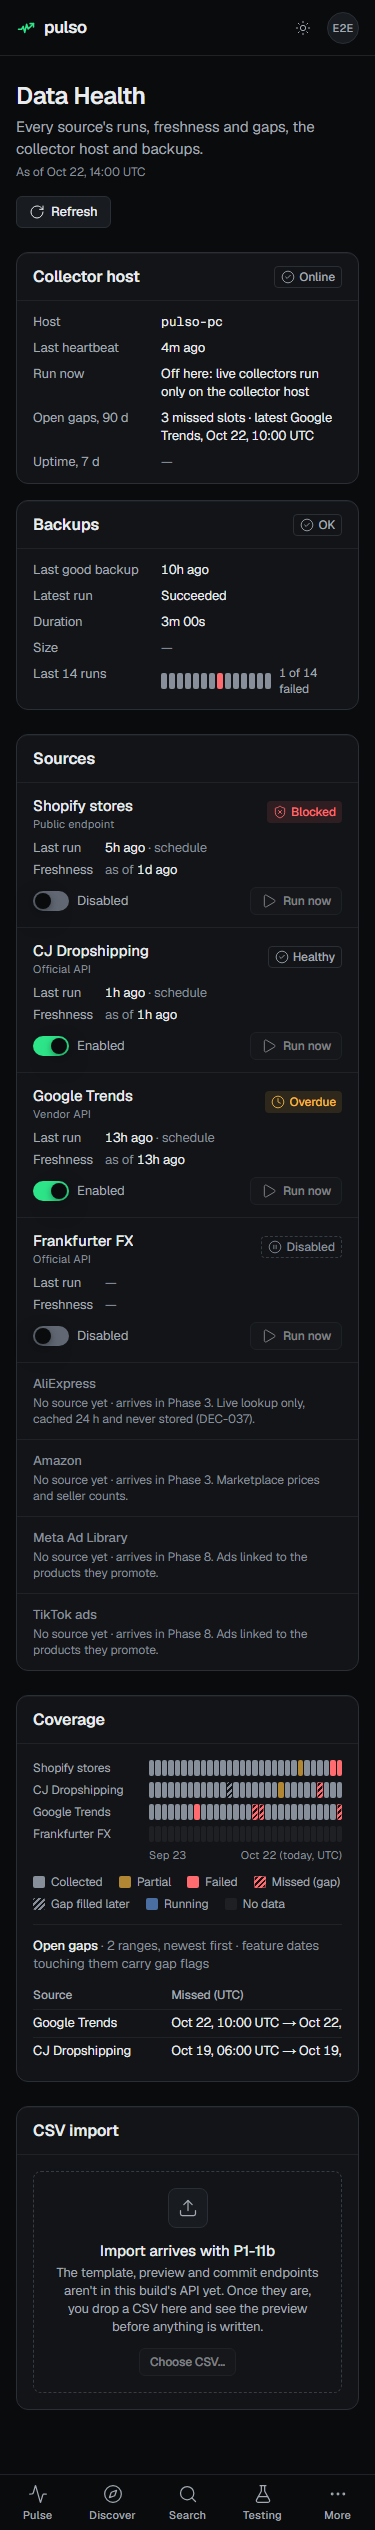
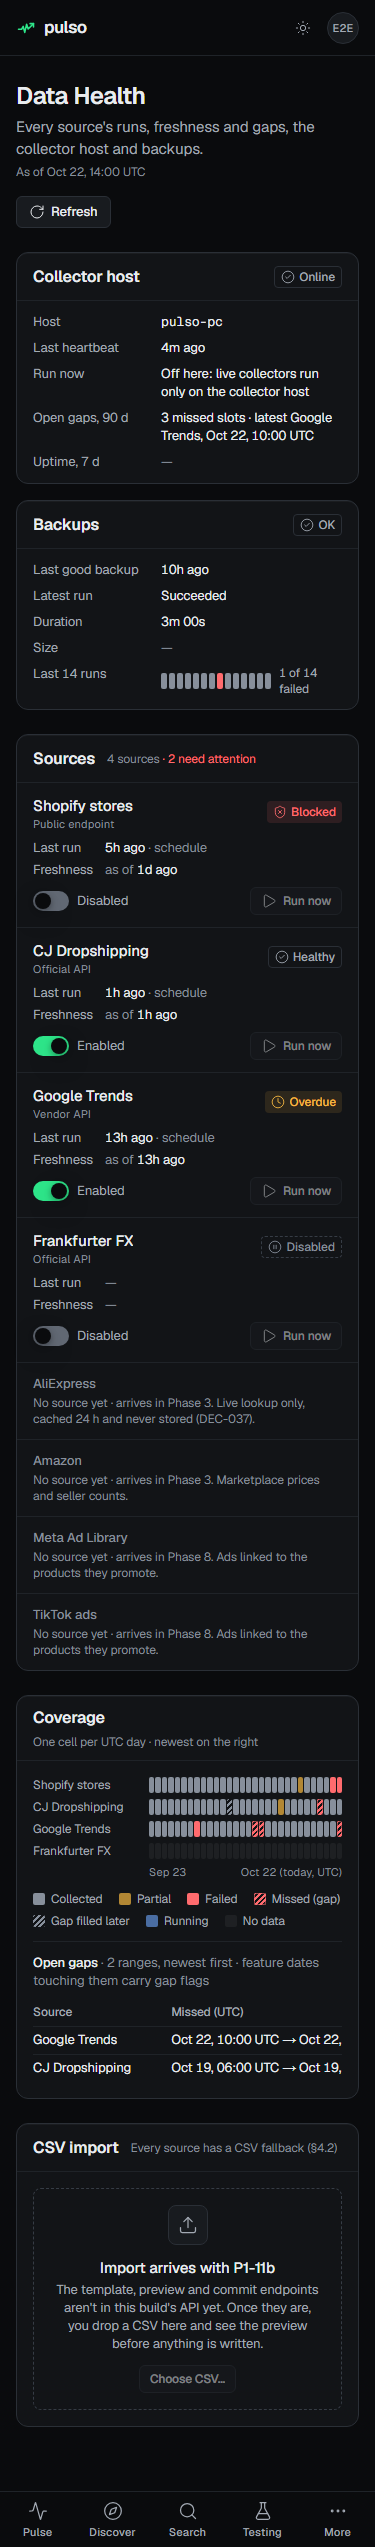
docs: DEC-096 Data Health UI defaults and P1-12 backlog rows

diff --git a/apps/web/src/components/data-health/summary-cards.tsx b/apps/web/src/components/data-health/summary-cards.tsx
@@ -124,7 +124,7 @@ export function BackupCard({ now }: { now: number }) {
   const shown = backup?.lastSuccess ?? backup?.latest;
 
   return (
-    <Panel id="backup" title="Backups" note="Nightly pg_dump on the collector host" actions={pill && <Pill tone={pill.tone} icon={pill.icon}>{pill.label}</Pill>}>
+    <Panel id="backup" title="Backups" note={<span className="max-sm:hidden">Nightly pg_dump on the collector host</span>} actions={pill && <Pill tone={pill.tone} icon={pill.icon}>{pill.label}</Pill>}>
       {runs.isPending ? (
         <CardSkeleton />
       ) : runs.isError ? (

diff --git a/apps/web/src/components/data-health/atoms.tsx b/apps/web/src/components/data-health/atoms.tsx
@@ -149,7 +149,7 @@ export function Panel({
         <h2 id={`${id}-title`} className="text-title-3 font-semibold text-foreground">
           {title}
         </h2>
-        {note && <span className="text-label text-subtle-foreground max-sm:hidden">{note}</span>}
+        {note && <span className="text-label text-subtle-foreground">{note}</span>}
         {actions && <div className="ml-auto flex items-center gap-2">{actions}</div>}
       </header>
       {children}

diff --git a/docs/DECISIONS.md b/docs/DECISIONS.md
@@ -95,6 +95,7 @@ New entries go at the bottom with the next number. Never renumber or delete; mar
 | DEC-088 | Frankfurter gap recovery, first-rate evidence and explicit FX rounding | proposed (P1-09) |
 | DEC-089 | Queued publishing and guarded Beat | proposed (P1-04) |
 | DEC-092 | Import retry: a capture with no successful run is re-run on upload, not skipped | proposed (P1-29) |
+| DEC-096 | Data Health UI: derived source states, nav badge rule, inline heatmap and contract gaps | proposed (P1-12) |
 
 Superseded review defaults, not given entries: default #0 (move the repo) is done, see DEC-005. Default #2 (no local collection at all) is replaced by DEC-002. Default #15 (CSS-only motion) is replaced by DEC-007, and its remaining rules are in DEC-025. Review question D1 (Railway Pro from Phase 1) is answered by DEC-001, D2 by DEC-003, D3 by DEC-004, D5 by DEC-008 and D8 by DEC-006.
 
@@ -1075,3 +1076,16 @@ Superseded review defaults, not given entries: default #0 (move the repo) is don
 - **Hook (adds to DEC-069's Hook bullet):** if the after-response hook or its commit raises on a 403/429/430, roll back its transaction and raise `RunDeferred(f"http_{code}")` chained from that exception, preserving committed raw/block/deadline evidence and stopping the remaining plan.
 - **Alternatives / why:** capture-only bounds can compare imported history with its future; propagating an ordinary hook error lets the next target fetch after a block. Aligning the bound and retaining the existing stop signal fixes both without a migration, unique-key change or dependency. Non-block hook errors still propagate unchanged.
 - **Validation:** O1/O2 and L1 (also 403/430) fail against `origin/main` `71a8b7b` and pass with these changes. Tests retain skipped-capture correction, historical-current ordering and a non-block hook-error control, and verify hook rollback with committed capture/block evidence. PostgreSQL and real S3 checks remain unverified locally (no Docker). Merge before any import adapter registers in `ADAPTERS` or P1-08/P1-09 passes `request_hook`.
+
+### DEC-096 · Data Health UI: derived source states, nav badge rule, inline heatmap and contract gaps
+**2026-10-22 · proposed (P1-12)** · task_39d407d94458; DH-2, DH-3, imp-001; builds on DEC-060 and DEC-068 and changes no API
+- **Decision:**
+  - **One display state per source**, derived in the web from `SourceHealth` and `HostHealth.open_gaps` by one pure function (`apps/web/src/components/data-health/model.ts`). First match wins: **Blocked** (`status = blocked`), **Disabled** (`enabled = false`), **Running** (last run queued or running), **Failing** (last run failed or blocked), **Overdue** (an unfilled gap for the source whose slot ended less than 24 h ago), **Partial** (last run partial, or success with `complete = false`), **Never run**, **Healthy**. The vault's Stale and Degraded need each source's expected interval, which DH-1 doesn't serve; Overdue (from the gap audit), Partial and Failing stand in until it does.
+  - **DH-3 nav badge:** a red count of sources that are Blocked, Failing or Overdue, the internal backup source included. Nothing shows at zero, while loading or on error. Every admin query refetches every 5 minutes.
+  - **Host and backup states:** the host is online up to 15 min after its last heartbeat, late up to 2 h, then offline (vault Data Health, States); the sidebar footer reads the same rule. The backup card shows Failed when the latest backup run failed and Overdue when no backup succeeded in 26 h (DEC-060).
+  - **Coverage heatmap:** an inline CSS grid, not ECharts: 90 days × 4 sources needs no chart library. Collected days are neutral; colour marks only partial, failed and running days, and gaps are hatched. Phones show the last 30 days. Each row has a text summary for screen readers.
+  - **Fields DH-1 doesn't serve show "—" with a "no source yet" reason, never 0:** next due, uptime and offline windows, backup size, quota while null, and raw-payload download links (the drawer shows payload ids). The CSV upload is a designed disabled state until P1-11b merges. Follow-ups are in `docs/BACKLOG.md`.
+  - **Controls:** Run now stays focusable (`aria-disabled`) with its reason in a tooltip when `live_runs_allowed` is false or the source is disabled. Disabling asks for an optional reason; re-enabling a blocked source requires one (§4.2), matching the API's 422.
+  - **`CURRENT_PHASE = 1`** in `apps/web/src/lib/nav.ts` (imp-001), pinned by a unit test, so the coming-soon pages, palette hints and phase progress bar agree.
+- **Alternatives:** hard-coding each source's interval in the web to compute Stale (it would drift from the Beat config); an ECharts heatmap (a large client library for one grid); badging partial runs too (noisy: one store timing out would light the badge).
+- **Why:** the badge has to mean "act now", so it counts only states the owner must act on. Every state comes from the shipped contract, so the UI never shows a status the API can't back. The missing fields are visible as gaps rather than invented.

diff --git a/docs/BACKLOG.md b/docs/BACKLOG.md
@@ -115,3 +115,17 @@ This file holds deferred ideas and research extras that are **not** in the §11 
 | Deferred work | Evidence | When | Notes |
 |---|---|---|---|
 | Import multiple dates for the same listing, variant or freight entity in one file | P1-19 finding 3; lead decision 3c; DEC-071 | A separately scoped history-import task | `observed_for` stays outside these observation identities and `0002` is unchanged. Current templates reject repeated entities with row-level errors; single-date historical imports remain supported with observed-date current ordering. Search Trends multi-date imports remain supported. |
+
+## P1-12 Data Health UI follow-ups (2026-10-22)
+
+| Deferred work | Evidence | When | Notes |
+|---|---|---|---|
+| Expected interval and `next_due` per source in `SourceHealth` (from the Beat crontab) | DEC-096; DH-2 | With the P1-04 Beat schedule | Fills the Next due column and lets the UI show the vault's Stale and Degraded states |
+| Host uptime (7 d), offline windows and scheduler lock holder in `HostHealth` | DEC-096; vault Data Health top strip | With the collector-host heartbeat work | The host card shows "—" (no source yet) |
+| Backup size and target in the backup run response | DEC-060, DEC-096 | With `backup.py` | `Run` omits `params` on purpose (import errors can be megabytes); add a narrow field instead |
+| Signed admin download links for `RunTarget.raw_payload_id` | DEC-068, DEC-096 | With Object Storage signed URLs | The run drawer shows payload ids only |
+| 7-day error rate per source | vault Data Health sources table | With the next DH-1 change | Derive in the API; the UI has no column for it yet |
+| Wire the CSV upload area to the P1-11b import endpoints | P1-11b; DEC-064 | After P1-11b merges | Template download, validation-only preview, then commit |
+| Data Health keyboard shortcuts (J/K, Enter, R with confirm, G, /) | vault Data Health, Keyboard | UI polish pass | The page is fully Tab-operable today |
+| Feed the top-bar "Data as of" chip and the Daily Pulse host chip and copy from DH-1 | App Shell & Navigation; imp-001 | Next shell task | Both still show Phase 0 placeholders; outside P1-12's file ownership |
+| Default `/api/v1/admin/*` stub for e2e specs that don't mock it | P1-12 | CI hygiene | The shell's badge and host footer call the API on every page, so unmocked specs log proxy errors (tests still pass) |
